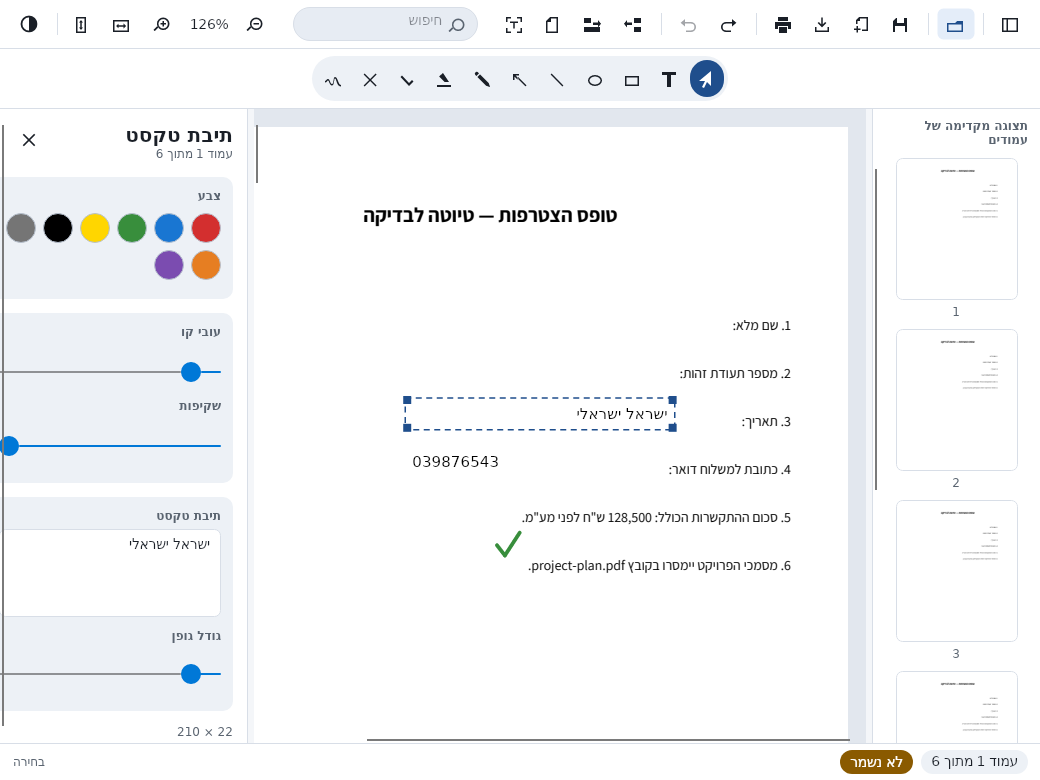
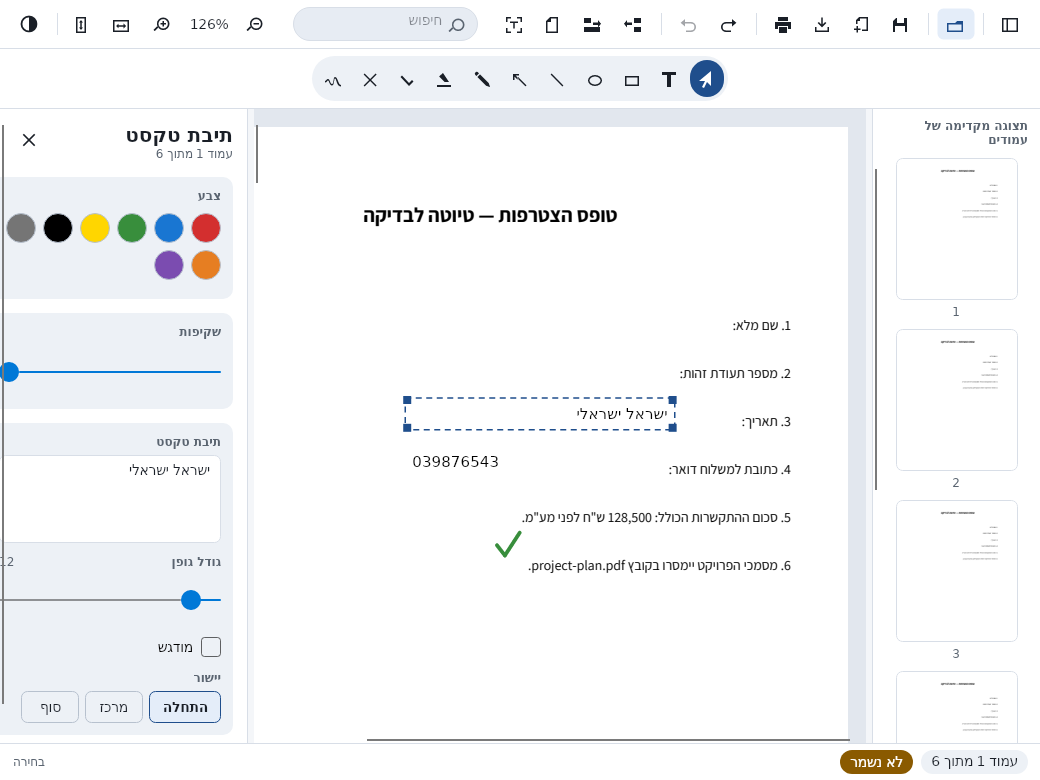
Make the properties panel show only controls that act
Three problems, all of them the panel telling the user something untrue.

The line width slider was shown for a text box. Text is created plain now, so a
text box has no stroke to widen and moving that slider did nothing at all. It
appears only when the annotation actually has a border, which also meant giving
opacity its own group rather than sharing one with a control that comes and
goes.

Bold and alignment existed in the view model and had never been put in the
window. Both matter for filling a form in, so both are there now. Alignment is
three segmented buttons rather than a dropdown: there are only three options and
seeing which is active is the point. They are named by where the line starts —
התחלה, מרכז, סוף — because the annotation follows its own text direction, so
start is the right in Hebrew and the left in a Latin run; naming them ימין and
שמאל would be wrong half the time. Each carries a tooltip saying so.

Font size was a bare slider. A form is matched to a size, not eyeballed, so the
number sits beside the label.

Rendered and inspected at 1360 in both themes before committing; the images are
updated from that run.

Claude-Session: https://claude.ai/code/session_01W83NpyGuoTbfiAP2TCAVjy

diff --git a/src/PdfEditor.App/ViewModels/PropertiesViewModel.cs b/src/PdfEditor.App/ViewModels/PropertiesViewModel.cs
@@ -52,8 +52,13 @@ public sealed class PropertiesViewModel : ViewModelBase
     public bool SupportsFill => _target is ShapeAnnotation
     { Kind: AnnotationKind.Rectangle or AnnotationKind.Ellipse };
 
+    /// <summary>
+    /// Whether a line width would change anything. A text box only has a stroke if something gave
+    /// it one — ours are created plain — and showing the slider for one that has none puts a
+    /// control in front of the user that does nothing when they move it.
+    /// </summary>
     public bool SupportsLineWidth => _target is ShapeAnnotation or InkAnnotation or MarkAnnotation
-        or TextBoxAnnotation;
+        || _target is TextBoxAnnotation { BorderColor: not null };
 
     /// <summary>
     /// The colour swatch. A text box has no stroke of its own, so for one the swatch is the ink of
@@ -99,6 +104,19 @@ public sealed class PropertiesViewModel : ViewModelBase
             Strings.ToolTextBox);
     }
 
+    /// <summary>
+    /// The font size as a number beside its slider. Filling a form often means matching a size
+    /// exactly, which a slider alone cannot tell you.
+    /// </summary>
+    public string FontSizeText => $"{Math.Round(FontSize)}";
+
+    /// <summary>Alignment, as three mutually exclusive states the view binds a button to each of.</summary>
+    public bool IsAlignStart => Alignment == TextAlignment.Start;
+    public bool IsAlignCenter => Alignment == TextAlignment.Center;
+    public bool IsAlignEnd => Alignment == TextAlignment.End;
+
+    public void ApplyAlignment(TextAlignment alignment) => Alignment = alignment;
+
     public bool Bold
     {
         get => (_target as TextBoxAnnotation)?.Bold ?? false;
@@ -137,7 +155,8 @@ public sealed class PropertiesViewModel : ViewModelBase
         RaiseAll(nameof(HasTarget), nameof(IsEditable), nameof(IsForeign), nameof(TitleText),
             nameof(IsTextBox), nameof(SupportsFill), nameof(SupportsLineWidth),
             nameof(Color), nameof(LineWidth), nameof(Opacity), nameof(Text), nameof(FontSize),
-            nameof(Bold), nameof(Alignment), nameof(GeometryText), nameof(PageText));
+            nameof(FontSizeText), nameof(Bold), nameof(Alignment), nameof(IsAlignStart),
+            nameof(IsAlignCenter), nameof(IsAlignEnd), nameof(GeometryText), nameof(PageText));
     }
 
     private void Mutate(Action<Annotation> change, string description)
@@ -150,7 +169,9 @@ public sealed class PropertiesViewModel : ViewModelBase
         _snapshot = _target.Clone();
 
         RaiseAll(nameof(Color), nameof(LineWidth), nameof(Opacity), nameof(Text), nameof(FontSize),
-            nameof(Bold), nameof(Alignment), nameof(GeometryText));
+            nameof(FontSizeText), nameof(Bold), nameof(Alignment), nameof(IsAlignStart),
+            nameof(IsAlignCenter), nameof(IsAlignEnd), nameof(SupportsLineWidth),
+            nameof(GeometryText));
     }
 
     /// <summary>Called after a drag or resize so the panel reflects the new geometry.</summary>

diff --git a/src/PdfEditor.Core/Localization/Strings.cs b/src/PdfEditor.Core/Localization/Strings.cs
@@ -98,6 +98,25 @@ public static class Strings
     public const string DontSave = "אל תשמור";
 
     // ---- recovery ---------------------------------------------------------------------------
+    // ---- the properties panel ----------------------------------------------------------------
+    public const string ColorLabel = "צבע";
+    public const string LineWidthLabel = "עובי קו";
+    public const string OpacityLabel = "שקיפות";
+    public const string FontSizeLabel = "גודל גופן";
+    public const string BoldLabel = "מודגש";
+    public const string AlignmentLabel = "יישור";
+
+    /// <summary>
+    /// Alignment is named by where the line starts, not by a side of the page: in Hebrew the start
+    /// is the right, in a Latin run it is the left, and the annotation follows its own text.
+    /// </summary>
+    public const string AlignStart = "התחלה";
+    public const string AlignCenter = "מרכז";
+    public const string AlignEnd = "סוף";
+    public const string AlignStartHint = "יישור לתחילת השורה — בעברית זהו הצד הימני";
+    public const string AlignCenterHint = "יישור למרכז";
+    public const string AlignEndHint = "יישור לסוף השורה — בעברית זהו הצד השמאלי";
+
     public const string RecoveryTitle = "נמצאה עבודה שלא נשמרה";
     public const string RecoveryBody =
         "בהפעלה הקודמת נותרו שינויים שלא נשמרו. אפשר לשחזר אותם עכשיו או למחוק אותם.";

diff --git a/src/PdfEditor.App/Views/MainWindow.axaml.cs b/src/PdfEditor.App/Views/MainWindow.axaml.cs
@@ -147,6 +147,15 @@ public sealed partial class MainWindow : Window
         }
     }
 
+    private void OnAlignmentChosen(object? sender, RoutedEventArgs e)
+    {
+        if (sender is Control { Tag: string name }
+            && Enum.TryParse<PdfEditor.Core.Annotations.TextAlignment>(name, out var alignment))
+        {
+            _viewModel?.Properties?.ApplyAlignment(alignment);
+        }
+    }
+
     private void OnSwatchClicked(object? sender, RoutedEventArgs e)
     {
         if (sender is Control { Tag: ColorSwatch swatch }) _viewModel?.Properties?.ApplyColor(swatch.Color);
